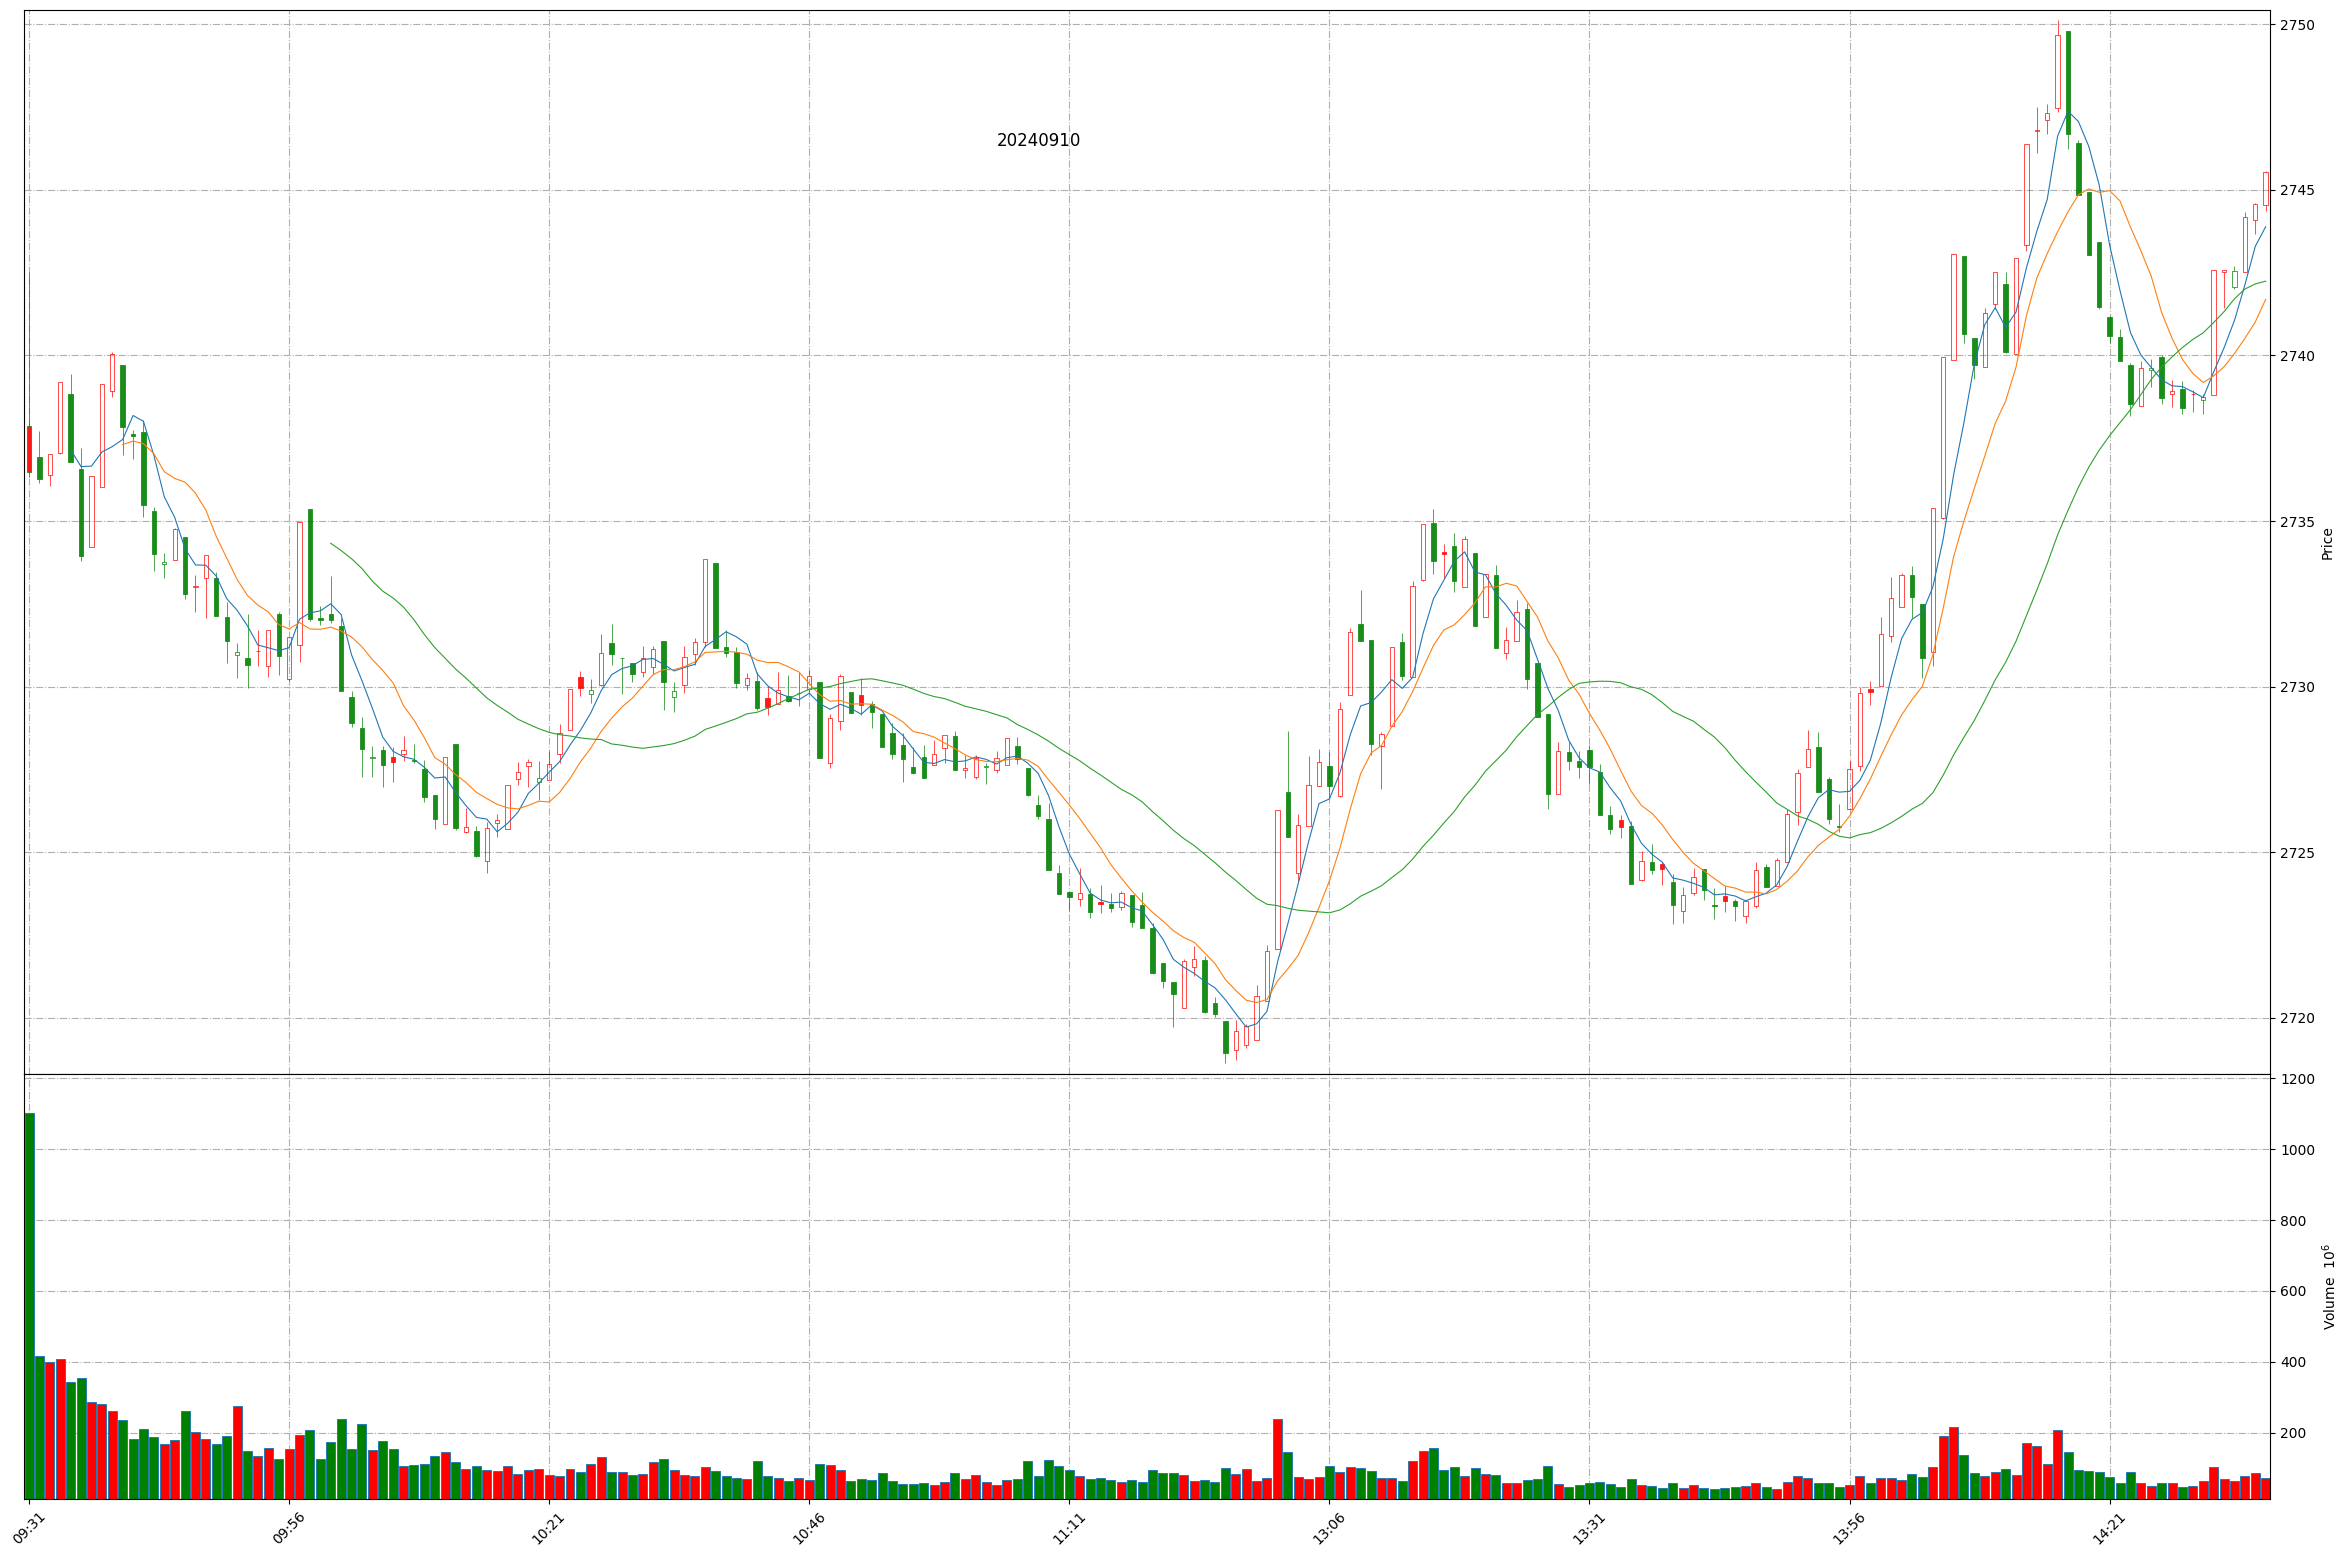
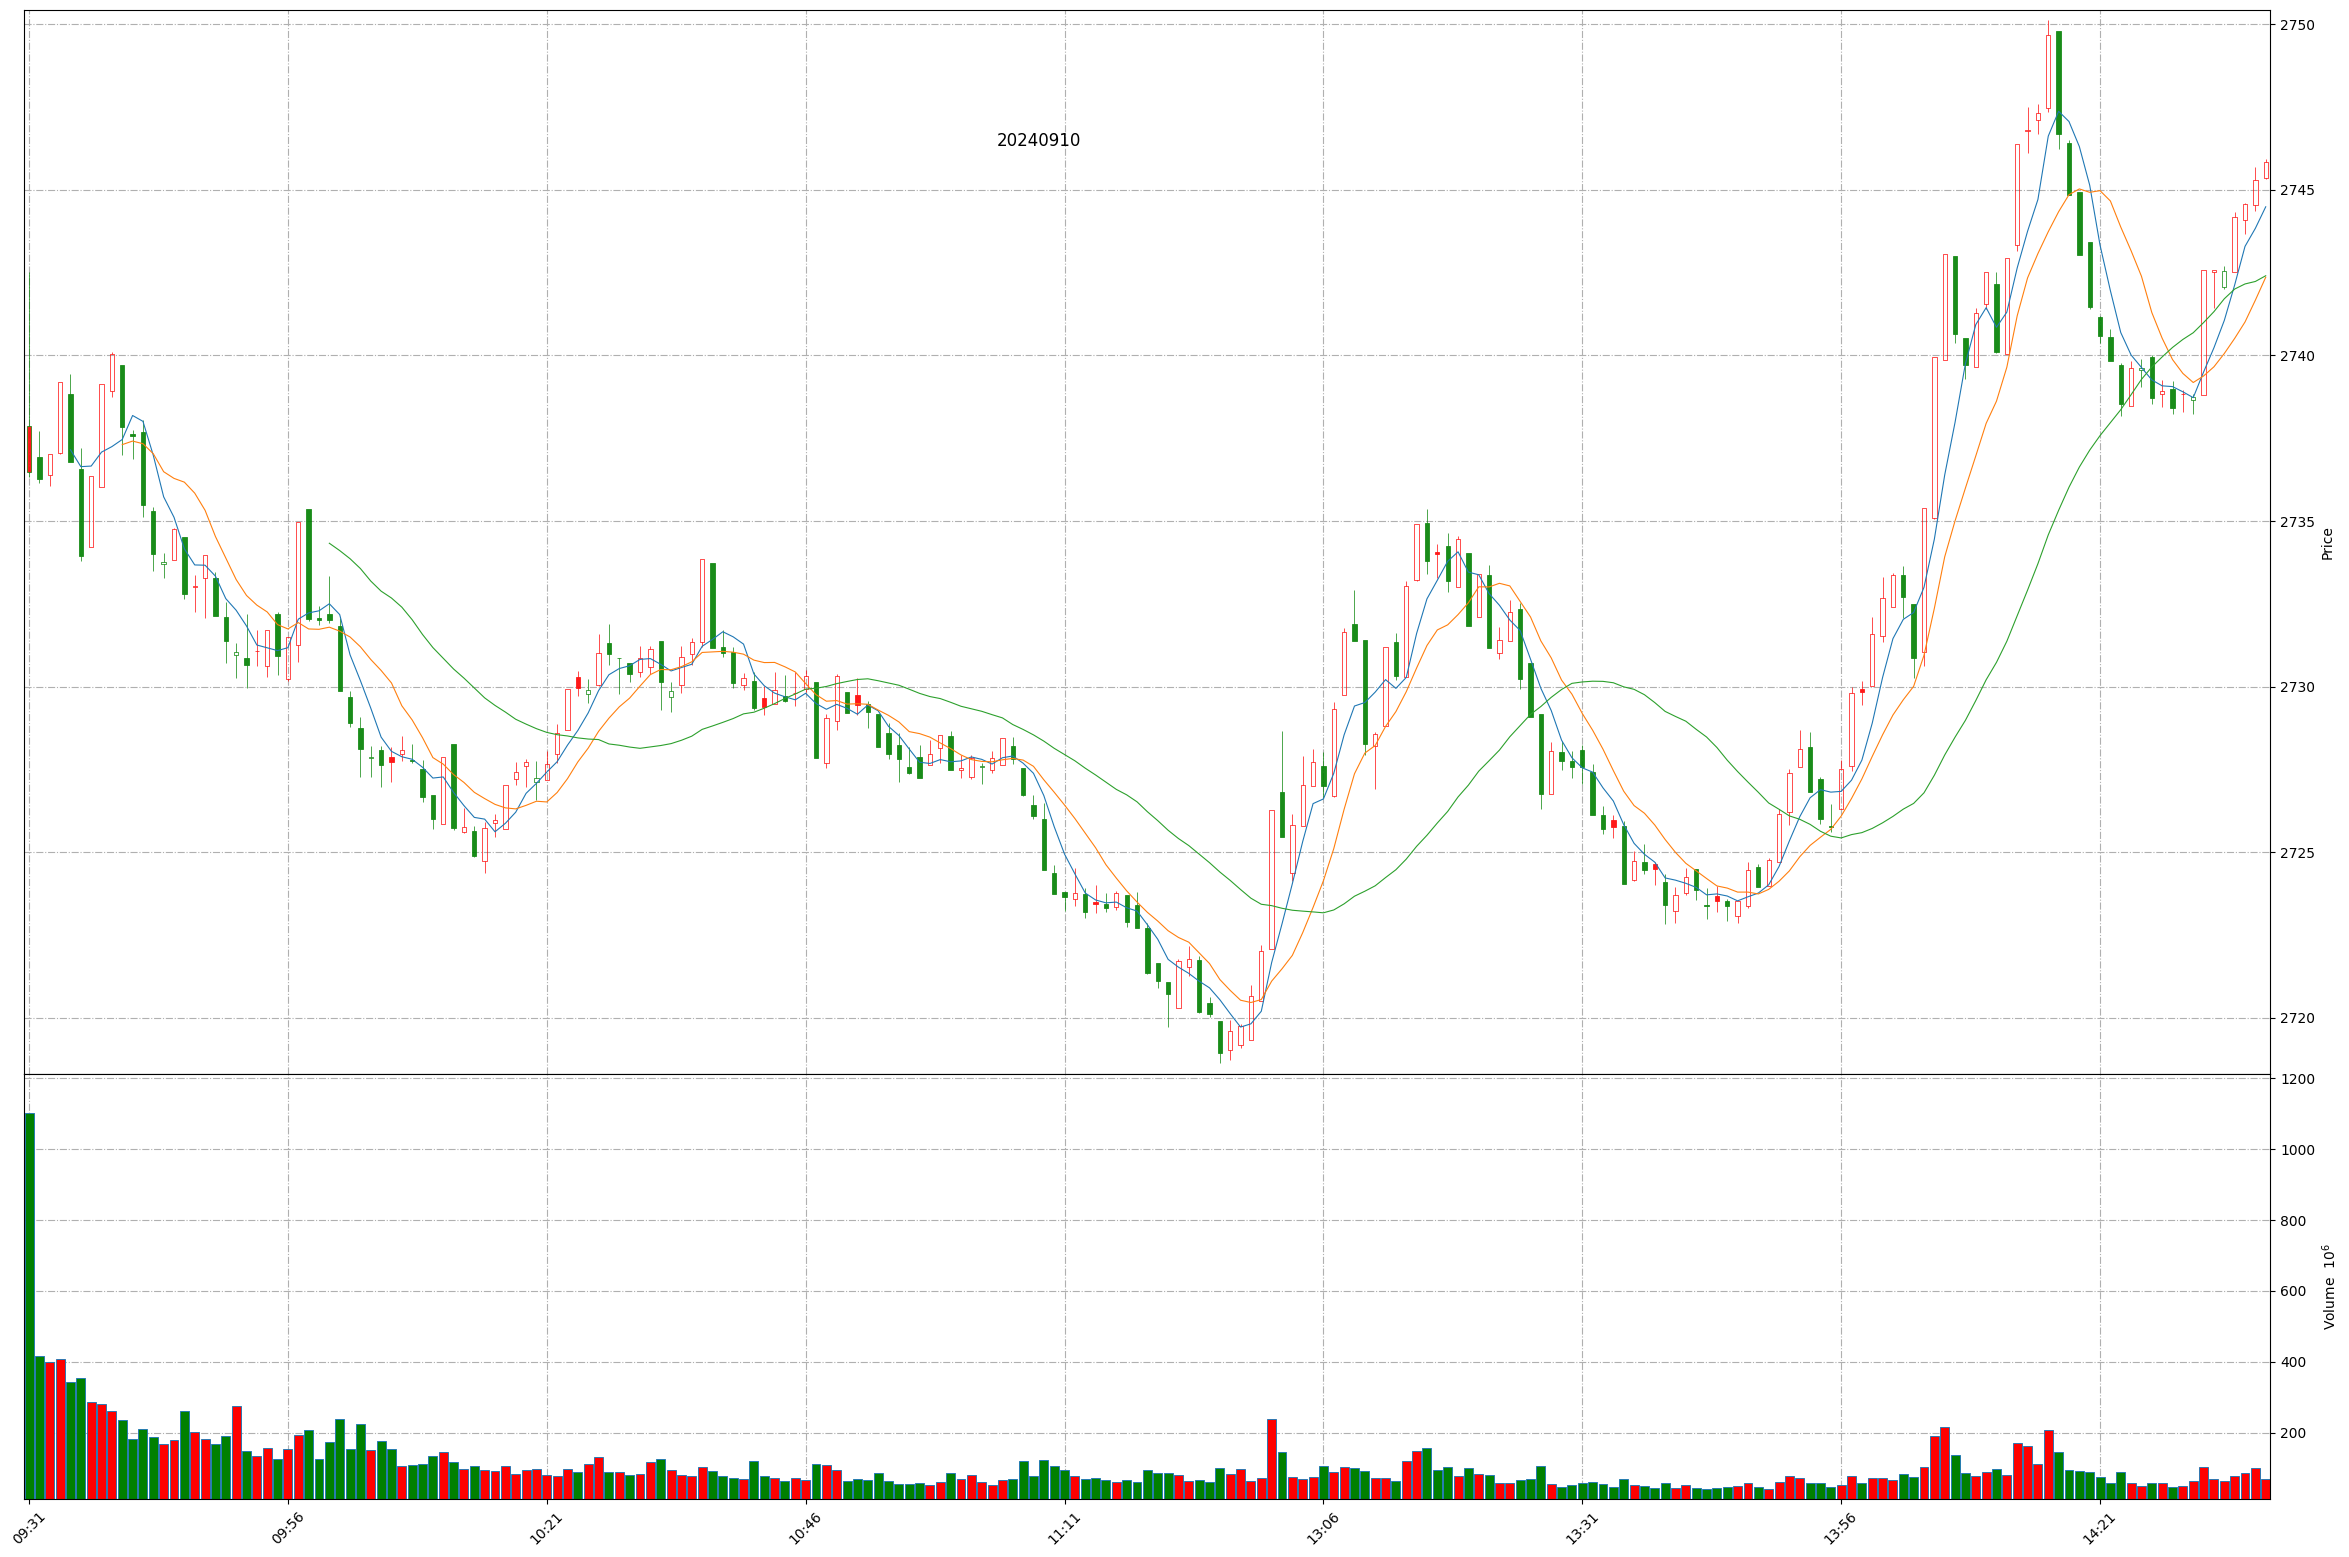
Github action update at 2024-09-10 14:37:12.

diff --git a/README.md b/README.md
@@ -1,11 +1,11 @@
 
 # Daily-A-share-market-quotes 每日 A 股指数（5min 更新）- 20240910
 
-### 上证指数 20240910 14:35
+### 上证指数 20240910 14:37
 ![](./fig/2024/9/20240910-sh000001.png)
 
-### 深证成指 20240910 14:35
+### 深证成指 20240910 14:37
 ![](./fig/2024/9/20240910-sz399001.png)
 
-### 北证50 20240910 14:35
+### 北证50 20240910 14:37
 ![](./fig/2024/9/20240910-bj899050.png)
